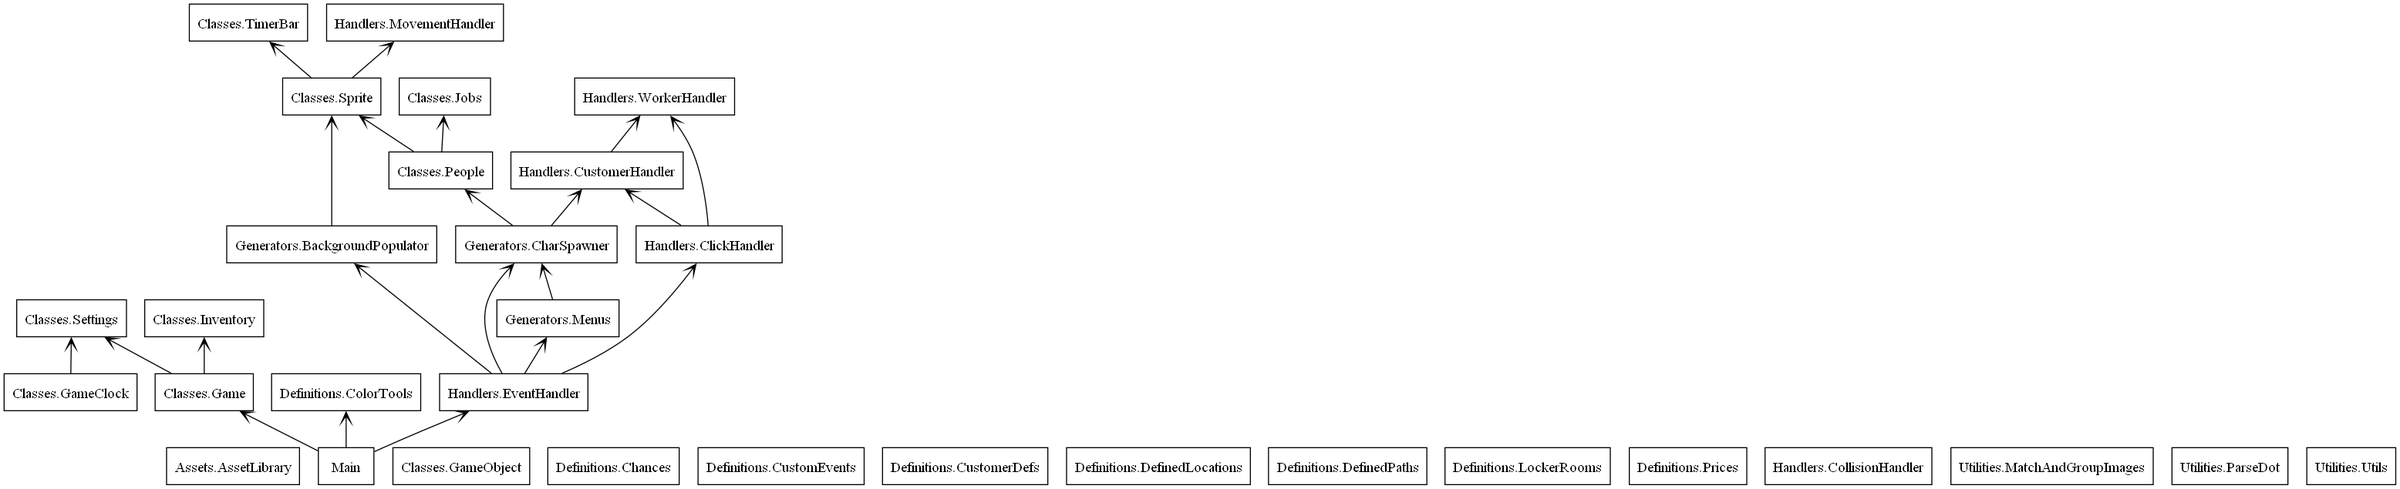
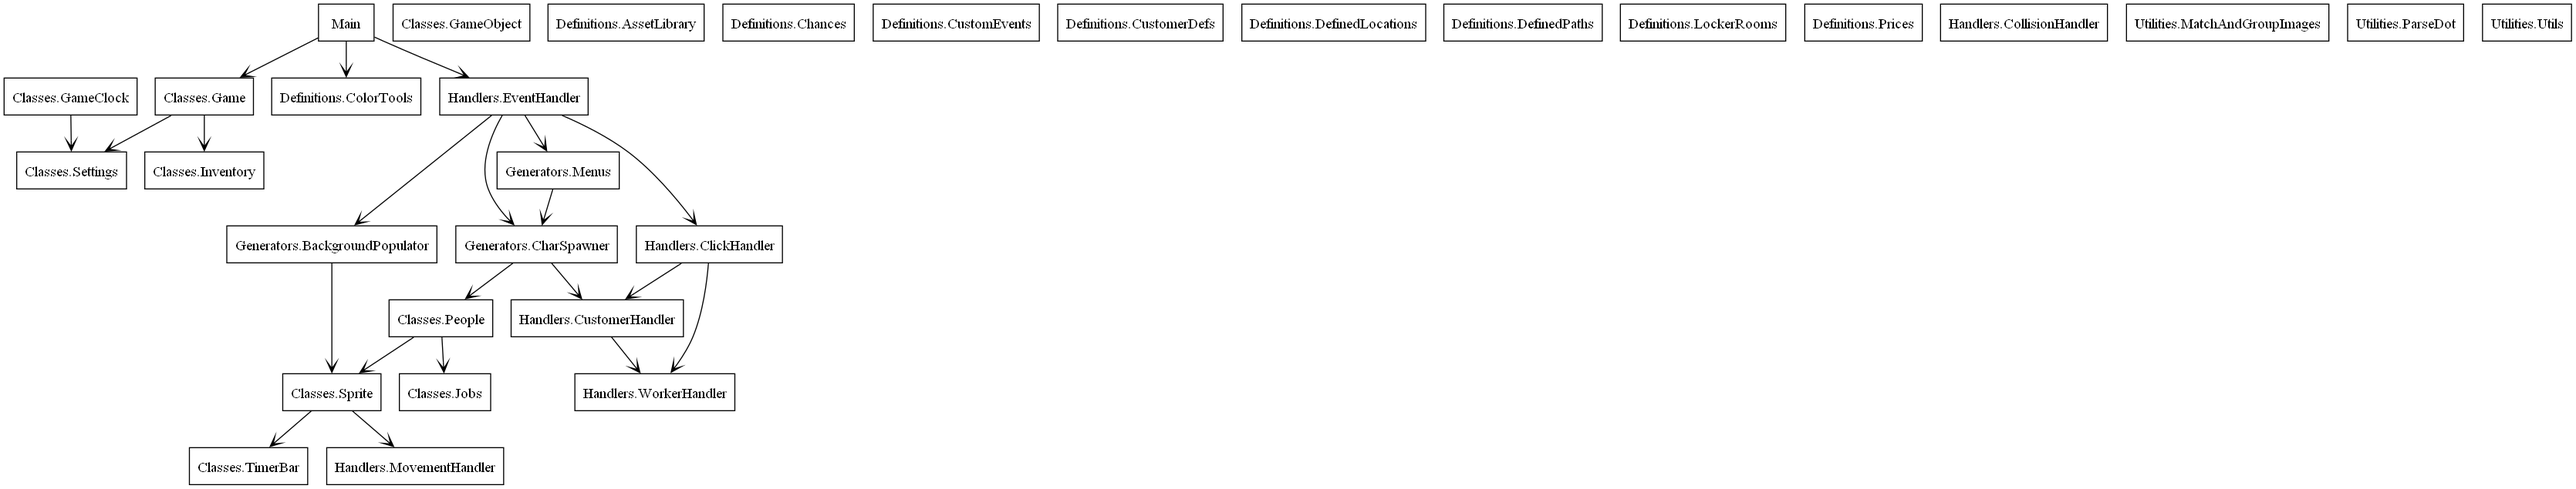
Fixed EXE build

diff --git a/Utilities/ParseDot.py b/Utilities/ParseDot.py
@@ -1,4 +1,4 @@
-"""Get stats from Dot file"""
+"""Remove Confusing Links in DOT FILE"""
 
 docString = []
 with open("packages.dot", "r", encoding="utf8") as fp:
@@ -11,7 +11,6 @@ with open("packages.dot", "r", encoding="utf8") as fp:
                 and "." in imported
                 and "Utils" not in imported
                 and "Game" not in imported
-                and "Asset" not in imported
                 and "Defin" not in imported
                 or ("Main" in importer and "." in imported)
             ):
@@ -22,7 +21,7 @@ with open("packages.dot", "r", encoding="utf8") as fp:
                 docString.append(line)
         else:
             if "rankdir" in line:
-                line.replace("BT", "TB")
+                line = line.replace("rankdir=BT", "rankdir=TB")
             docString.append(line)
 with open("packages.dot", "w", encoding="utf8") as fp:
     fp.writelines(docString)

diff --git a/Definitions/Prices.py b/Definitions/Prices.py
@@ -1,9 +1,12 @@
 """Prices Definitions"""
+
+
 class DefaultPrices:
     Rent: int = 100.00
     NewWorker: float = 500.00
     Salary: float = 80.00
     Table: float = 250.00
+
 
 # pylint: disable=invalid-name
 CurrentRent = DefaultPrices.Rent
